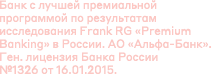
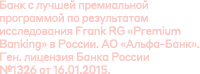
Add files via upload

diff --git a/a_premium19_240x400_review/index.js b/a_premium19_240x400_review/index.js
@@ -12,7 +12,7 @@ lib.ssMetadata = [];
 (lib.legal = function() {
 	this.initialize(img.legal);
 }).prototype = p = new cjs.Bitmap();
-p.nominalBounds = new cjs.Rectangle(0,0,211,74);
+p.nominalBounds = new cjs.Rectangle(0,0,200,74);
 
 
 (lib.pozdner = function() {
@@ -37,82 +37,30 @@ function getMCSymbolPrototype(symbol, nominalBounds, frameBounds) {
 	}
 
 
-(lib.txt0203 = function(mode,startPosition,loop) {
+(lib.txt020 = function(mode,startPosition,loop) {
 	this.initialize(mode,startPosition,loop,{});
 
 	// Layer_1 copy
 	this.shape = new cjs.Shape();
[1 lines of base64/hex data omitted]
-	this.shape.setTransform(-19.625,2.2);
[1 lines of base64/hex data omitted]
+	this.shape.setTransform(-18.6,2.05);
 
 	this.timeline.addTween(cjs.Tween.get(this.shape).wait(1));
 
-}).prototype = getMCSymbolPrototype(lib.txt0203, new cjs.Rectangle(-124,-22.9,248,45.4), null);
+}).prototype = getMCSymbolPrototype(lib.txt020, new cjs.Rectangle(-124.5,-50.3,249,100.69999999999999), null);
 
 
-(lib.txt0202 = function(mode,startPosition,loop) {
+(lib.txt010 = function(mode,startPosition,loop) {
 	this.initialize(mode,startPosition,loop,{});
 
 	// Layer_1 copy
 	this.shape = new cjs.Shape();
[1 lines of base64/hex data omitted]
-	this.shape.setTransform(-18.625,3.925);
[1 lines of base64/hex data omitted]
+	this.shape.setTransform(-38.15,2.4);
 
 	this.timeline.addTween(cjs.Tween.get(this.shape).wait(1));
 
-}).prototype = getMCSymbolPrototype(lib.txt0202, new cjs.Rectangle(-124,-22.9,248,45.4), null);
-
-
-(lib.txt0201 = function(mode,startPosition,loop) {
-	this.initialize(mode,startPosition,loop,{});
-
-	// Layer_1 copy
-	this.shape = new cjs.Shape();
[1 lines of base64/hex data omitted]
-	this.shape.setTransform(-62.75,4.975);
-
-	this.timeline.addTween(cjs.Tween.get(this.shape).wait(1));
-
-}).prototype = getMCSymbolPrototype(lib.txt0201, new cjs.Rectangle(-124,-22.7,248,45.5), null);
-
-
-(lib.txt0103 = function(mode,startPosition,loop) {
-	this.initialize(mode,startPosition,loop,{});
-
-	// Layer_1 copy
-	this.shape = new cjs.Shape();
[1 lines of base64/hex data omitted]
-	this.shape.setTransform(-60.125,2.2);
-
-	this.timeline.addTween(cjs.Tween.get(this.shape).wait(1));
-
-}).prototype = getMCSymbolPrototype(lib.txt0103, new cjs.Rectangle(-124,-22.7,248,45.5), null);
-
-
-(lib.txt0102 = function(mode,startPosition,loop) {
-	this.initialize(mode,startPosition,loop,{});
-
-	// Layer_1 copy
-	this.shape = new cjs.Shape();
[1 lines of base64/hex data omitted]
-	this.shape.setTransform(-43.925,5.35);
-
-	this.timeline.addTween(cjs.Tween.get(this.shape).wait(1));
-
-}).prototype = getMCSymbolPrototype(lib.txt0102, new cjs.Rectangle(-124,-22.7,248,45.5), null);
-
-
-(lib.txt0101 = function(mode,startPosition,loop) {
-	this.initialize(mode,startPosition,loop,{});
-
-	// Layer_1 copy
-	this.shape = new cjs.Shape();
[1 lines of base64/hex data omitted]
-	this.shape.setTransform(-38.325,2.75);
-
-	this.timeline.addTween(cjs.Tween.get(this.shape).wait(1));
-
-}).prototype = getMCSymbolPrototype(lib.txt0101, new cjs.Rectangle(-124,-22.7,248,45.5), null);
+}).prototype = getMCSymbolPrototype(lib.txt010, new cjs.Rectangle(-124.5,-50.3,249,100.69999999999999), null);
 
 
 (lib.pozdner_1 = function(mode,startPosition,loop) {
@@ -138,7 +86,7 @@ function getMCSymbolPrototype(symbol, nominalBounds, frameBounds) {
 
 	this.timeline.addTween(cjs.Tween.get(this.instance).wait(1));
 
-}).prototype = getMCSymbolPrototype(lib.legal_1, new cjs.Rectangle(-106,-52,212,76), null);
+}).prototype = getMCSymbolPrototype(lib.legal_1, new cjs.Rectangle(-106,-52,211,76), null);
 
 
 (lib.fade = function(mode,startPosition,loop) {
@@ -210,31 +158,13 @@ p.nominalBounds = new cjs.Rectangle(-120,-200,240,400);
 (lib.TXT02 = function(mode,startPosition,loop) {
 	this.initialize(mode,startPosition,loop,{});
 
-	// txt0103
-	this.instance = new lib.txt0203();
+	// txt010
+	this.instance = new lib.txt020();
 	this.instance.parent = this;
-	this.instance.setTransform(121,80.5);
+	this.instance.setTransform(120,52.5);
 	this.instance.alpha = 0;
-	this.instance._off = true;
 
-	this.timeline.addTween(cjs.Tween.get(this.instance).wait(4).to({_off:false},0).to({y:63,alpha:1},19,cjs.Ease.cubicOut).wait(68).to({y:80,alpha:0},19,cjs.Ease.cubicIn).wait(5));
-
-	// txt0102
-	this.instance_1 = new lib.txt0202();
-	this.instance_1.parent = this;
-	this.instance_1.setTransform(120,52.5);
-	this.instance_1.alpha = 0;
-	this.instance_1._off = true;
-
-	this.timeline.addTween(cjs.Tween.get(this.instance_1).wait(2).to({_off:false},0).to({y:35,alpha:1},19,cjs.Ease.cubicOut).wait(72).to({y:52,alpha:0},19,cjs.Ease.cubicIn).wait(3));
-
-	// txt0101
-	this.instance_2 = new lib.txt0201();
-	this.instance_2.parent = this;
-	this.instance_2.setTransform(120,24.5);
-	this.instance_2.alpha = 0;
-
-	this.timeline.addTween(cjs.Tween.get(this.instance_2).to({y:7,alpha:1},19,cjs.Ease.cubicOut).wait(76).to({y:25,alpha:0},19,cjs.Ease.cubicIn).wait(1));
+	this.timeline.addTween(cjs.Tween.get(this.instance).to({y:35,alpha:1},25,cjs.Ease.quadOut).wait(76).to({y:52,alpha:0},26,cjs.Ease.quadIn).wait(1));
 
 }).prototype = p = new cjs.MovieClip();
 p.nominalBounds = new cjs.Rectangle(-1,-1,204.8,93.9);
@@ -243,31 +173,13 @@ p.nominalBounds = new cjs.Rectangle(-1,-1,204.8,93.9);
 (lib.TXT01 = function(mode,startPosition,loop) {
 	this.initialize(mode,startPosition,loop,{});
 
-	// txt0103
-	this.instance = new lib.txt0103();
+	// txt010
+	this.instance = new lib.txt010();
 	this.instance.parent = this;
-	this.instance.setTransform(121,80.5);
+	this.instance.setTransform(120,52.5);
 	this.instance.alpha = 0;
-	this.instance._off = true;
 
-	this.timeline.addTween(cjs.Tween.get(this.instance).wait(4).to({_off:false},0).to({y:63,alpha:1},19,cjs.Ease.cubicOut).wait(68).to({y:80,alpha:0},19,cjs.Ease.cubicIn).wait(5));
-
-	// txt0102
-	this.instance_1 = new lib.txt0102();
-	this.instance_1.parent = this;
-	this.instance_1.setTransform(120,52.5);
-	this.instance_1.alpha = 0;
-	this.instance_1._off = true;
-
-	this.timeline.addTween(cjs.Tween.get(this.instance_1).wait(2).to({_off:false},0).to({y:35,alpha:1},19,cjs.Ease.cubicOut).wait(72).to({y:52,alpha:0},19,cjs.Ease.cubicIn).wait(3));
-
-	// txt0101
-	this.instance_2 = new lib.txt0101();
-	this.instance_2.parent = this;
-	this.instance_2.setTransform(120,24.5);
-	this.instance_2.alpha = 0;
-
-	this.timeline.addTween(cjs.Tween.get(this.instance_2).to({y:7,alpha:1},19,cjs.Ease.cubicOut).wait(76).to({y:25,alpha:0},19,cjs.Ease.cubicIn).wait(1));
+	this.timeline.addTween(cjs.Tween.get(this.instance).to({y:35,alpha:1},25,cjs.Ease.quadOut).wait(76).to({y:52,alpha:0},25,cjs.Ease.cubicIn).wait(1));
 
 }).prototype = p = new cjs.MovieClip();
 p.nominalBounds = new cjs.Rectangle(0,0,163.7,92.9);
@@ -279,13 +191,13 @@ p.nominalBounds = new cjs.Rectangle(0,0,163.7,92.9);
 	// Layer_1
 	this.instance = new lib.legal_1();
 	this.instance.parent = this;
-	this.instance.setTransform(106,4);
+	this.instance.setTransform(106,44);
 	this.instance.alpha = 0;
 
-	this.timeline.addTween(cjs.Tween.get(this.instance).to({y:24,alpha:1},19,cjs.Ease.cubicOut).wait(55).to({y:44,alpha:0},20,cjs.Ease.cubicIn).wait(1));
+	this.timeline.addTween(cjs.Tween.get(this.instance).to({y:24,alpha:1},25,cjs.Ease.cubicOut).wait(55).to({y:44,alpha:0},26,cjs.Ease.cubicIn).wait(1));
 
 }).prototype = p = new cjs.MovieClip();
-p.nominalBounds = new cjs.Rectangle(1,-48,211,114);
+p.nominalBounds = new cjs.Rectangle(1,-28,200,94);
 
 
 (lib.AlogoMOV = function(mode,startPosition,loop) {
@@ -297,7 +209,7 @@ p.nominalBounds = new cjs.Rectangle(1,-48,211,114);
 	this.instance.setTransform(0,-20);
 	this.instance.alpha = 0;
 
-	this.timeline.addTween(cjs.Tween.get(this.instance).to({y:0,alpha:1},19,cjs.Ease.cubicOut).wait(55).to({y:20,alpha:0},20,cjs.Ease.cubicIn).wait(1));
+	this.timeline.addTween(cjs.Tween.get(this.instance).to({y:0,alpha:1},25,cjs.Ease.cubicOut).wait(64).to({y:20,alpha:0},27,cjs.Ease.cubicIn).wait(1));
 
 }).prototype = p = new cjs.MovieClip();
 p.nominalBounds = new cjs.Rectangle(-21.5,-52.8,43.1,105.69999999999999);
@@ -311,7 +223,7 @@ p.nominalBounds = new cjs.Rectangle(-21.5,-52.8,43.1,105.69999999999999);
 	this.instance.parent = this;
 	this.instance.setTransform(81,30);
 
-	this.timeline.addTween(cjs.Tween.get(this.instance).wait(367));
+	this.timeline.addTween(cjs.Tween.get(this.instance).wait(440));
 
 	// A
 	this.instance_1 = new lib.AlogoMOV("synched",0,false);
@@ -319,7 +231,7 @@ p.nominalBounds = new cjs.Rectangle(-21.5,-52.8,43.1,105.69999999999999);
 	this.instance_1.setTransform(120,195);
 	this.instance_1._off = true;
 
-	this.timeline.addTween(cjs.Tween.get(this.instance_1).wait(266).to({_off:false},0).to({_off:true},100).wait(1));
+	this.timeline.addTween(cjs.Tween.get(this.instance_1).wait(316).to({_off:false},0).to({_off:true},123).wait(1));
 
 	// LEGAL
 	this.instance_2 = new lib.LegalMOV("synched",0,false);
@@ -327,7 +239,7 @@ p.nominalBounds = new cjs.Rectangle(-21.5,-52.8,43.1,105.69999999999999);
 	this.instance_2.setTransform(122.5,353,1,1,0,0,0,105.5,24);
 	this.instance_2._off = true;
 
-	this.timeline.addTween(cjs.Tween.get(this.instance_2).wait(266).to({_off:false},0).to({_off:true},100).wait(1));
+	this.timeline.addTween(cjs.Tween.get(this.instance_2).wait(327).to({_off:false},0).to({_off:true},112).wait(1));
 
 	// TXT02
 	this.instance_3 = new lib.TXT02("synched",0,false);
@@ -335,7 +247,7 @@ p.nominalBounds = new cjs.Rectangle(-21.5,-52.8,43.1,105.69999999999999);
 	this.instance_3.setTransform(99.1,337.5,1,1,0,0,0,82.1,37.5);
 	this.instance_3._off = true;
 
-	this.timeline.addTween(cjs.Tween.get(this.instance_3).wait(150).to({_off:false},0).to({_off:true},115).wait(102));
+	this.timeline.addTween(cjs.Tween.get(this.instance_3).wait(185).to({_off:false},0).to({_off:true},130).wait(125));
 
 	// Layer_11
 	this.instance_4 = new lib.fade();
@@ -344,32 +256,34 @@ p.nominalBounds = new cjs.Rectangle(-21.5,-52.8,43.1,105.69999999999999);
 	this.instance_4.alpha = 0;
 	this.instance_4._off = true;
 
-	this.timeline.addTween(cjs.Tween.get(this.instance_4).wait(150).to({_off:false},0).to({alpha:1},25).wait(69).to({alpha:0},20).to({_off:true},1).wait(102));
+	this.timeline.addTween(cjs.Tween.get(this.instance_4).wait(185).to({_off:false},0).to({alpha:1},25).wait(84).to({alpha:0},20,cjs.Ease.cubicIn).to({_off:true},1).wait(125));
 
 	// TXT01
 	this.instance_5 = new lib.TXT01("synched",0,false);
 	this.instance_5.parent = this;
 	this.instance_5.setTransform(99.1,337.5,1,1,0,0,0,82.1,37.5);
+	this.instance_5._off = true;
 
-	this.timeline.addTween(cjs.Tween.get(this.instance_5).to({_off:true},132).wait(235));
+	this.timeline.addTween(cjs.Tween.get(this.instance_5).wait(5).to({_off:false},0).to({_off:true},148).wait(287));
 
 	// POZDNER
 	this.instance_6 = new lib.pozdner_1();
 	this.instance_6.parent = this;
 	this.instance_6.setTransform(105.2,-67.95,0.65,0.65,0,0,0,0.3,0.1);
 	this.instance_6.alpha = 0;
+	this.instance_6._off = true;
 
-	this.timeline.addTween(cjs.Tween.get(this.instance_6).to({y:-27.95,alpha:1},35,cjs.Ease.cubicOut).wait(57).to({regX:0,regY:0,scaleX:1,scaleY:1,x:122,y:680},87,cjs.Ease.cubicInOut).wait(65).to({y:720,alpha:0},21,cjs.Ease.cubicIn).wait(102));
+	this.timeline.addTween(cjs.Tween.get(this.instance_6).wait(5).to({_off:false},0).to({y:-27.95,alpha:1},35,cjs.Ease.cubicOut).wait(74).to({regX:0.5,regY:0,scaleX:0.6501,scaleY:0.6501,x:105.3,y:-27.8},0).wait(1).to({scaleX:0.6502,scaleY:0.6502,y:-27.5},0).wait(1).to({scaleX:0.6504,scaleY:0.6504,y:-27.15},0).wait(1).to({scaleX:0.6506,scaleY:0.6506,y:-26.65},0).wait(1).to({scaleX:0.6509,scaleY:0.6509,y:-26.05},0).wait(1).to({scaleX:0.6513,scaleY:0.6513,y:-25.35},0).wait(1).to({scaleX:0.6517,scaleY:0.6517,y:-24.55},0).wait(1).to({scaleX:0.6521,scaleY:0.6521,y:-23.6},0).wait(1).to({scaleX:0.6527,scaleY:0.6527,y:-22.55},0).wait(1).to({scaleX:0.6533,scaleY:0.6533,y:-21.35},0).wait(1).to({scaleX:0.6539,scaleY:0.6539,y:-20},0).wait(1).to({scaleX:0.6546,scaleY:0.6546,y:-18.55},0).wait(1).to({scaleX:0.6555,scaleY:0.6555,y:-16.9},0).wait(1).to({scaleX:0.6563,scaleY:0.6563,y:-15.15},0).wait(1).to({scaleX:0.6573,scaleY:0.6573,y:-13.2},0).wait(1).to({scaleX:0.6583,scaleY:0.6583,y:-11.05},0).wait(1).to({scaleX:0.6595,scaleY:0.6595,y:-8.8},0).wait(1).to({scaleX:0.6607,scaleY:0.6607,y:-6.3},0).wait(1).to({scaleX:0.662,scaleY:0.662,y:-3.6},0).wait(1).to({scaleX:0.6635,scaleY:0.6635,y:-0.7},0).wait(1).to({scaleX:0.665,scaleY:0.665,y:2.35},0).wait(1).to({scaleX:0.6666,scaleY:0.6666,y:5.7},0).wait(1).to({scaleX:0.6684,scaleY:0.6684,y:9.25},0).wait(1).to({scaleX:0.6703,scaleY:0.6703,y:13.1},0).wait(1).to({scaleX:0.6724,scaleY:0.6724,y:17.25},0).wait(1).to({scaleX:0.6746,scaleY:0.6746,y:21.7},0).wait(1).to({scaleX:0.6769,scaleY:0.6769,y:26.4},0).wait(1).to({scaleX:0.6794,scaleY:0.6794,y:31.5},0).wait(1).to({scaleX:0.6821,scaleY:0.6821,y:36.95},0).wait(1).to({scaleX:0.685,scaleY:0.685,y:42.75},0).wait(1).to({scaleX:0.6881,scaleY:0.6881,y:49},0).wait(1).to({scaleX:0.6914,scaleY:0.6914,y:55.7},0).wait(1).to({scaleX:0.6949,scaleY:0.6949,y:62.85},0).wait(1).to({scaleX:0.6987,scaleY:0.6987,y:70.55},0).wait(1).to({scaleX:0.7028,scaleY:0.7028,y:78.8},0).wait(1).to({scaleX:0.7072,scaleY:0.7072,y:87.65},0).wait(1).to({scaleX:0.7119,scaleY:0.7119,y:97.2},0).wait(1).to({scaleX:0.717,scaleY:0.717,y:107.45},0).wait(1).to({scaleX:0.7224,scaleY:0.7224,x:105.25,y:118.5},0).wait(1).to({scaleX:0.7283,scaleY:0.7283,y:130.4},0).wait(1).to({scaleX:0.7347,scaleY:0.7347,y:143.25},0).wait(1).to({scaleX:0.7415,scaleY:0.7415,y:157.1},0).wait(1).to({scaleX:0.7489,scaleY:0.7489,y:172.05},0).wait(1).to({scaleX:0.7569,scaleY:0.7569,x:105.3,y:188.2},0).wait(1).to({scaleX:0.7655,scaleY:0.7655,y:205.5},0).wait(1).to({scaleX:0.7746,scaleY:0.7746,y:224.1},0).wait(1).to({scaleX:0.7844,scaleY:0.7844,y:243.9},0).wait(1).to({scaleX:0.7948,scaleY:0.7948,x:105.25,y:264.9},0).wait(1).to({scaleX:0.8056,scaleY:0.8056,y:286.8},0).wait(1).to({scaleX:0.8168,scaleY:0.8168,y:309.45},0).wait(1).to({scaleX:0.8282,scaleY:0.8282,y:332.45},0).wait(1).to({scaleX:0.8396,scaleY:0.8396,y:355.4},0).wait(1).to({scaleX:0.8507,scaleY:0.8507,x:105.3,y:377.95},0).wait(1).to({scaleX:0.8615,scaleY:0.8615,x:105.25,y:399.75},0).wait(1).to({scaleX:0.8718,scaleY:0.8718,y:420.5},0).wait(1).to({scaleX:0.8814,scaleY:0.8814,y:440.1},0).wait(1).to({scaleX:0.8905,scaleY:0.8905,y:458.4},0).wait(1).to({scaleX:0.8989,scaleY:0.8989,y:475.5},0).wait(1).to({scaleX:0.9068,scaleY:0.9068,y:491.3},0).wait(1).to({scaleX:0.914,scaleY:0.914,y:505.95},0).wait(1).to({scaleX:0.9207,scaleY:0.9207,y:519.5},0).wait(1).to({scaleX:0.9269,scaleY:0.9269,y:532.05},0).wait(1).to({scaleX:0.9327,scaleY:0.9327,x:105.2,y:543.65},0).wait(1).to({scaleX:0.938,scaleY:0.938,y:554.4},0).wait(1).to({scaleX:0.9429,scaleY:0.9429,y:564.35},0).wait(1).to({scaleX:0.9474,scaleY:0.9474,y:573.6},0).wait(1).to({scaleX:0.9517,scaleY:0.9517,x:105.25,y:582.15},0).wait(1).to({scaleX:0.9556,scaleY:0.9556,y:590.1},0).wait(1).to({scaleX:0.9593,scaleY:0.9593,y:597.5},0).wait(1).to({scaleX:0.9627,scaleY:0.9627,y:604.35},0).wait(1).to({scaleX:0.9658,scaleY:0.9658,y:610.75},0).wait(1).to({scaleX:0.9688,scaleY:0.9688,y:616.7},0).wait(1).to({scaleX:0.9715,scaleY:0.9715,y:622.25},0).wait(1).to({scaleX:0.9741,scaleY:0.9741,y:627.4},0).wait(1).to({scaleX:0.9764,scaleY:0.9764,y:632.2},0).wait(1).to({scaleX:0.9786,scaleY:0.9786,y:636.65},0).wait(1).to({scaleX:0.9807,scaleY:0.9807,y:640.8},0).wait(1).to({scaleX:0.9826,scaleY:0.9826,y:644.65},0).wait(1).to({scaleX:0.9844,scaleY:0.9844,y:648.25},0).wait(1).to({scaleX:0.986,scaleY:0.986,y:651.55},0).wait(1).to({scaleX:0.9875,scaleY:0.9875,y:654.65},0).wait(1).to({scaleX:0.9889,scaleY:0.9889,y:657.5},0).wait(1).to({scaleX:0.9902,scaleY:0.9902,y:660.1},0).wait(1).to({scaleX:0.9914,scaleY:0.9914,y:662.55},0).wait(1).to({scaleX:0.9925,scaleY:0.9925,y:664.75},0).wait(1).to({scaleX:0.9935,scaleY:0.9935,y:666.8},0).wait(1).to({scaleX:0.9945,scaleY:0.9945,y:668.65},0).wait(1).to({scaleX:0.9953,scaleY:0.9953,y:670.35},0).wait(1).to({scaleX:0.996,scaleY:0.996,y:671.85},0).wait(1).to({scaleX:0.9967,scaleY:0.9967,y:673.25},0).wait(1).to({scaleX:0.9973,scaleY:0.9973,y:674.45},0).wait(1).to({scaleX:0.9979,scaleY:0.9979,y:675.55},0).wait(1).to({scaleX:0.9983,scaleY:0.9983,y:676.5},0).wait(1).to({scaleX:0.9987,scaleY:0.9987,y:677.35},0).wait(1).to({scaleX:0.9991,scaleY:0.9991,y:678.05},0).wait(1).to({scaleX:0.9994,scaleY:0.9994,y:678.6},0).wait(1).to({scaleX:0.9996,scaleY:0.9996,y:679.1},0).wait(1).to({scaleX:0.9998,scaleY:0.9998,y:679.45},0).wait(1).to({scaleX:0.9999,scaleY:0.9999,y:679.7},0).wait(1).to({scaleX:1,scaleY:1,y:679.85},0).wait(1).to({regX:0,x:105,y:680},0).wait(75).to({y:720,alpha:0},25,cjs.Ease.quadIn).wait(126));
 
 	// BG
 	this.instance_7 = new lib.BG();
 	this.instance_7.parent = this;
 	this.instance_7.setTransform(120,200,1,1,0,0,0,120,200);
 
-	this.timeline.addTween(cjs.Tween.get(this.instance_7).wait(367));
+	this.timeline.addTween(cjs.Tween.get(this.instance_7).wait(440));
 
 }).prototype = p = new cjs.MovieClip();
-p.nominalBounds = new cjs.Rectangle(-119.2,-548.3,1061.2,2007.3);
+p.nominalBounds = new cjs.Rectangle(-136.1,-548.3,1078.1,2007.3);
 
 
 // stage content:
@@ -406,7 +320,7 @@ p.nominalBounds = new cjs.Rectangle(-119.2,-548.3,1061.2,2007.3);
 	this.timeline.addTween(cjs.Tween.get(this.shape_1).wait(1));
 
 }).prototype = p = new cjs.MovieClip();
-p.nominalBounds = new cjs.Rectangle(68.4,-348.3,193.9,760.7);
+p.nominalBounds = new cjs.Rectangle(119,199,122,202);
 // library properties:
 lib.properties = {
 	id: 'F66FE7A2AC3D5941AE55BF9D2D3ACE18',
